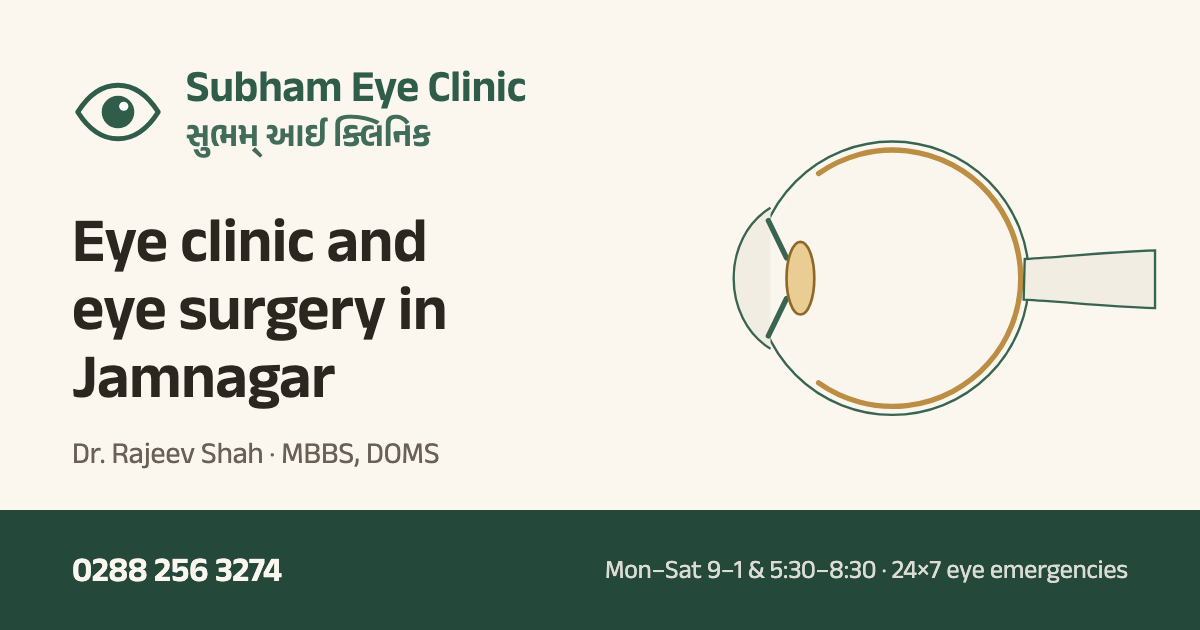
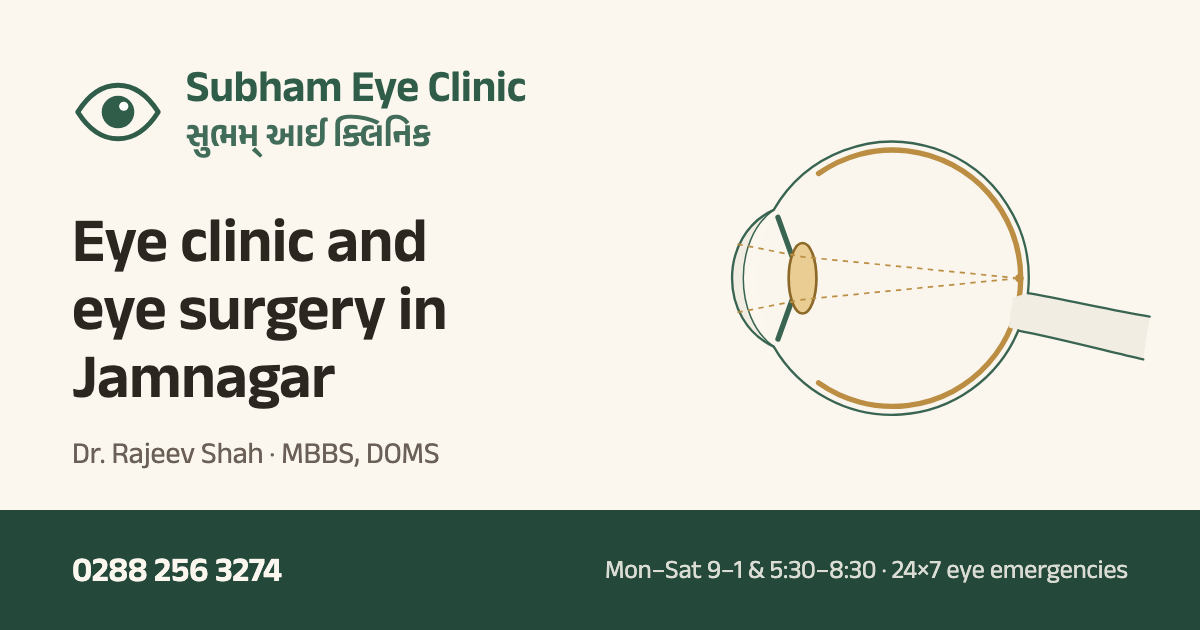
Share image: corrected eye drawing

diff --git a/tools/og.html b/tools/og.html
@@ -22,6 +22,6 @@ p{margin-top:18px;font-size:30px;color:#6A6057}
  <h1>Eye clinic and eye surgery in Jamnagar</h1>
  <p>Dr. Rajeev Shah · MBBS, DOMS</p>
 </div>
-<svg class="eye" viewBox="120 20 440 310"><circle cx="300" cy="170" r="120" fill="#FAF6EE"/><path d="M231 72A120 120 0 1 1 231 268" fill="none" stroke="#B8893A" stroke-width="5" stroke-linecap="round"/><circle cx="300" cy="170" r="128" fill="none" stroke="#2F5D4A" stroke-width="2.2"/><path d="M424 152C462 150 494 146 546 144V198C494 196 462 192 423 190Z" fill="#F1EDE2" stroke="#2F5D4A" stroke-width="2.2"/><path d="M186 104C140 132 140 208 186 236" fill="#F1EDE2" stroke="#2F5D4A" stroke-width="2.2"/><path d="M184 116L201 151M184 224L201 189" stroke="#2F5D4A" stroke-width="5" stroke-linecap="round"/><ellipse cx="214" cy="170" rx="13" ry="34" fill="#E9CB8F" stroke="#87621F" stroke-width="2.5"/></svg>
+<svg class="eye" viewBox="120 20 440 310"><circle cx="300" cy="170" r="127" fill="#FAF6EE"/><path d="M189 106C137 130 137 210 189 234C151 207 151 133 189 106Z" fill="#F1EDE2"/><path d="M231 72A120 120 0 1 1 231 268" fill="none" stroke="#B8893A" stroke-width="5" stroke-linecap="round"/><path d="M413 188L427 184C462 190 505 200 541 206L535 246C500 238 455 226 418 219L409 216Z" fill="#F1EDE2"/><g fill="none" stroke="#2F5D4A" stroke-width="2.2" stroke-linecap="round" stroke-linejoin="round"><path d="M427 184A128 128 0 0 0 189 106C137 130 137 210 189 234A128 128 0 0 0 418 219"/><path d="M189 106C151 133 151 207 189 234" stroke-width="1.4"/><path d="M427 184C462 190 505 200 541 206M418 219C455 226 500 238 535 246"/></g><path d="M193 113L206 149M193 227L206 191" stroke="#2F5D4A" stroke-width="5" stroke-linecap="round"/><ellipse cx="216" cy="170" rx="13" ry="33" fill="#E9CB8F" stroke="#87621F" stroke-width="2.5"/><g stroke="#B8893A" stroke-width="1.6" stroke-dasharray="5 5" fill="none"><path d="M155 138L216 150L418 170M155 202L216 190L418 170"/></g><circle cx="419" cy="170" r="4" fill="#B8893A"/></svg>
 <div class="band"><span>0288 256 3274</span><small>Mon–Sat 9–1 &amp; 5:30–8:30 · 24×7 eye emergencies</small></div>
 </body></html>
